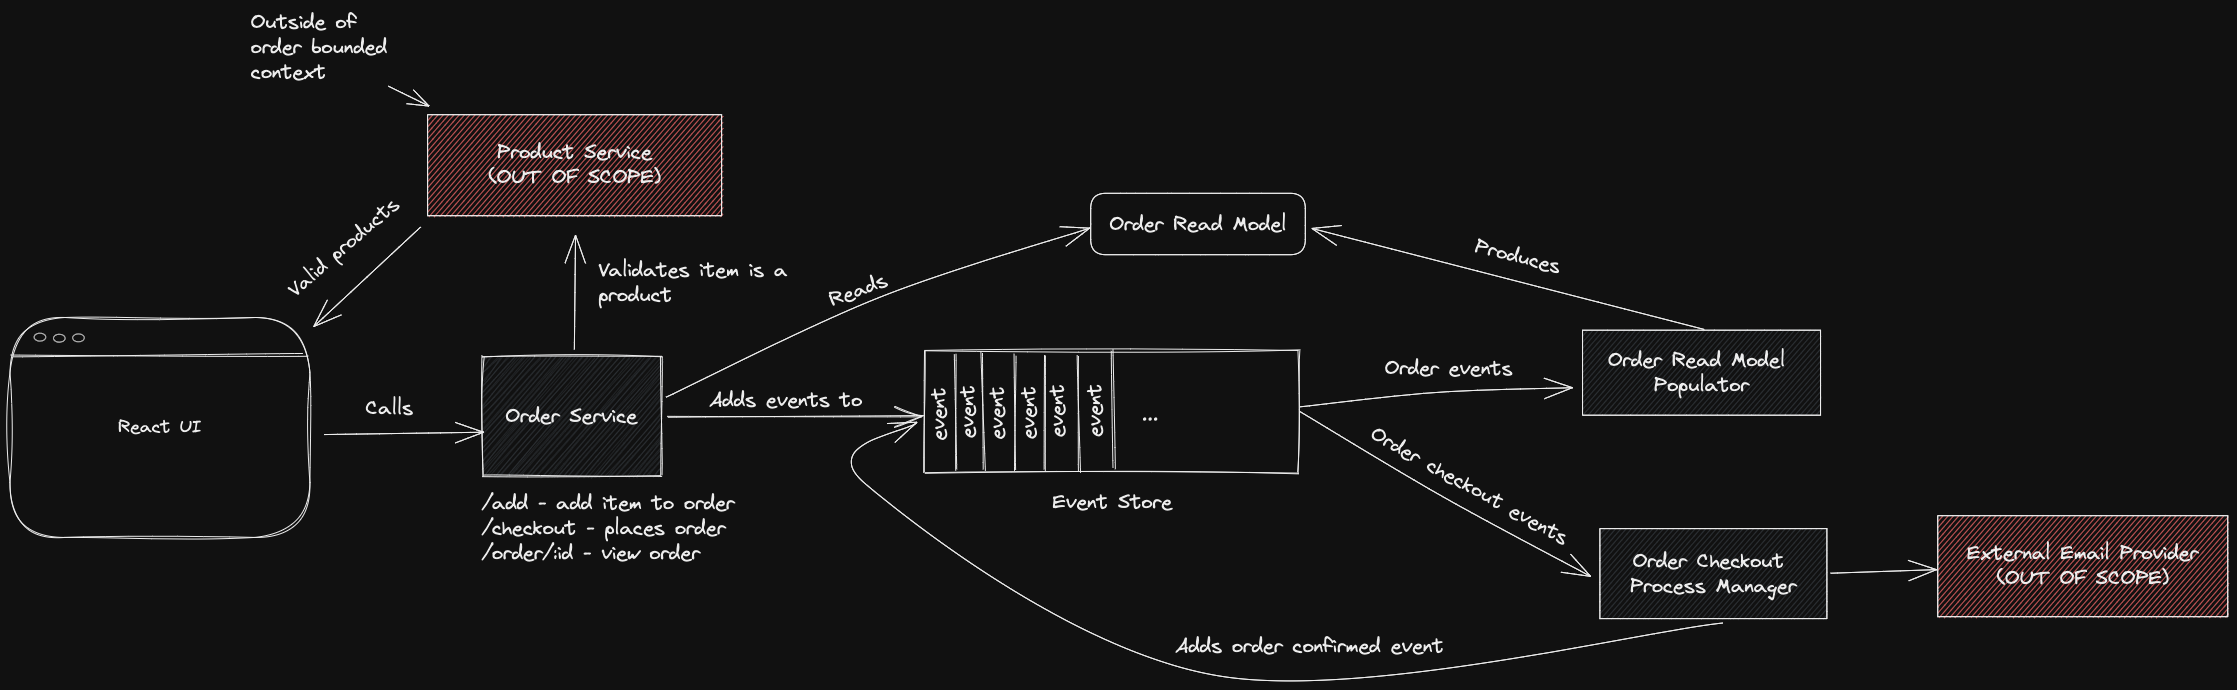
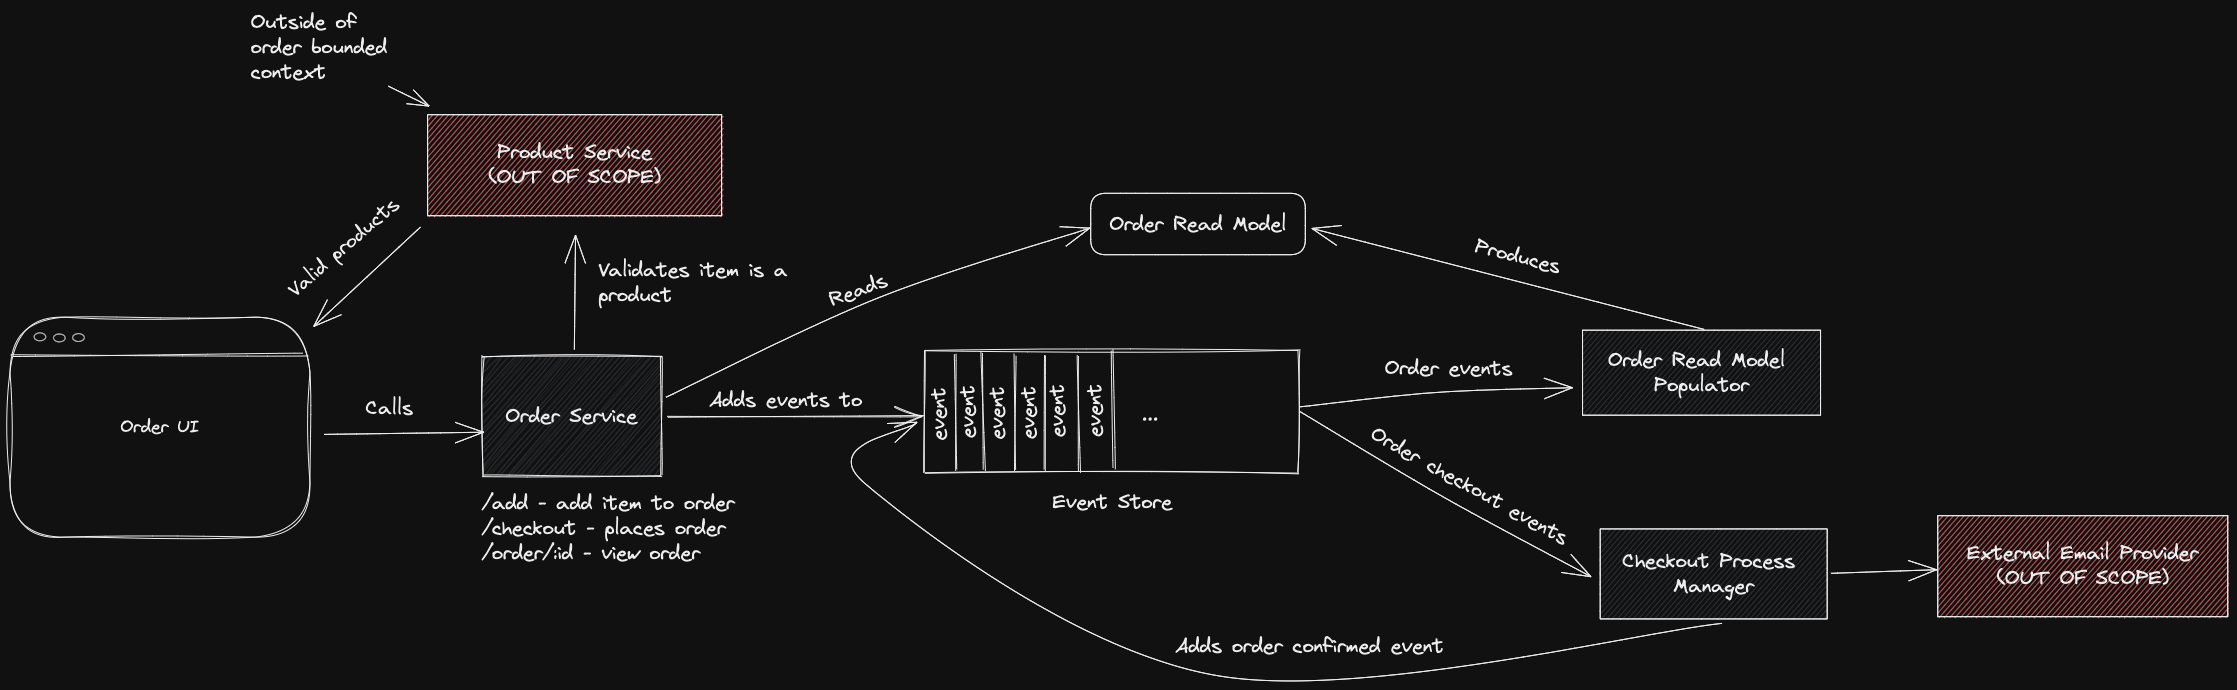
services overview + system design update

diff --git a/README.md b/README.md
@@ -2,8 +2,6 @@
 
 An event sourced ecommerce system for learning and development.
 
-![System design overview](./docs/diagrams/system-design.png)
-
 ## Project Goals
 
 -   Create an order
@@ -21,3 +19,12 @@ I have made the following out of scope for this project to keep things simple:
 -   Any product bounded context stuff e.g. product service (again use a mock)
 -   API authentication
 -   User specific stuff e.g. orders won't have a customer id attached
+
+## Services Overview
+
+-   **Order Service**: A web API responsible for creating, adding items to, viewing and checking out orders.
+-   **Order UI**: A React frontend application for the order service, allows users to interact with the system.
+-   **Order Read Model Populator**: A process manager that listens to order update events and builds the order read model used for querying orders.
+-   **Checkout Process Manager**: A process manager responsible for executing the checkout flow when orders are checked out.
+
+![System design overview](./docs/diagrams/system-design.png)
